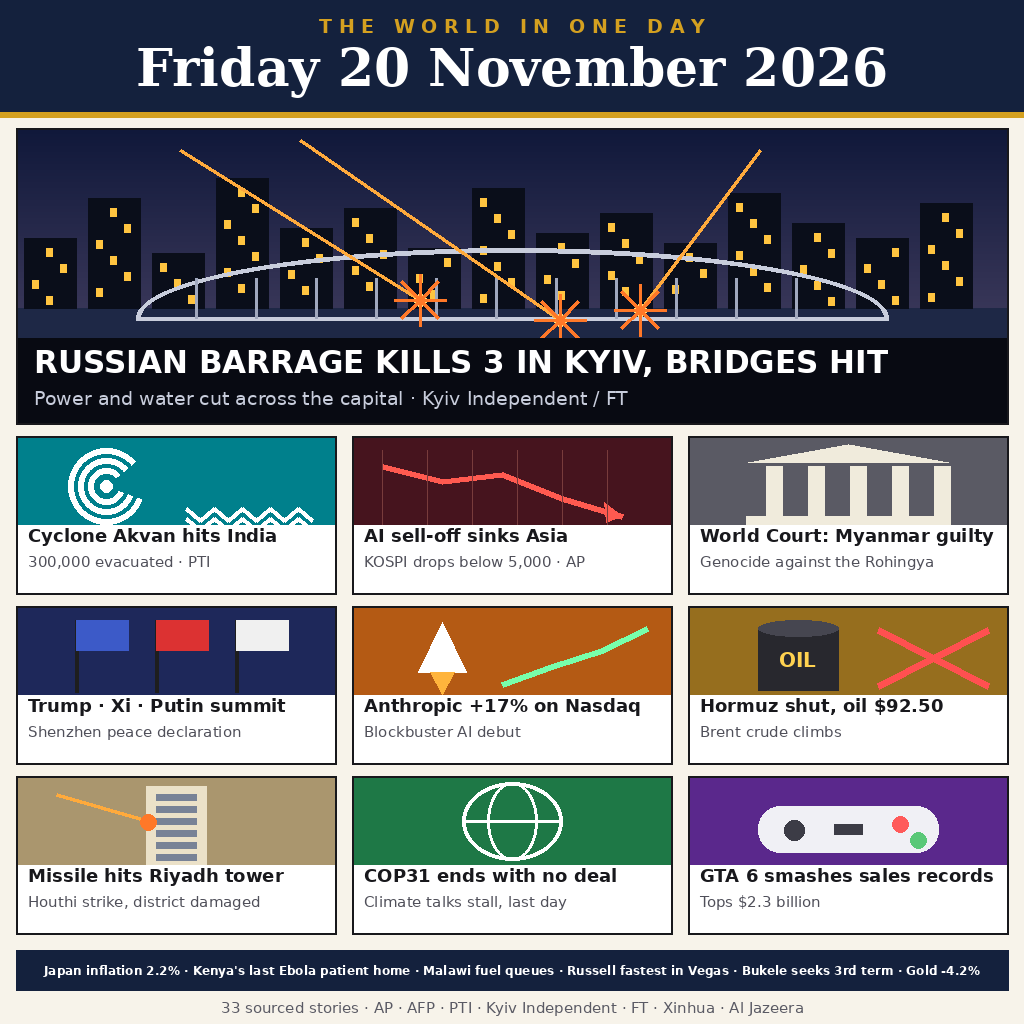
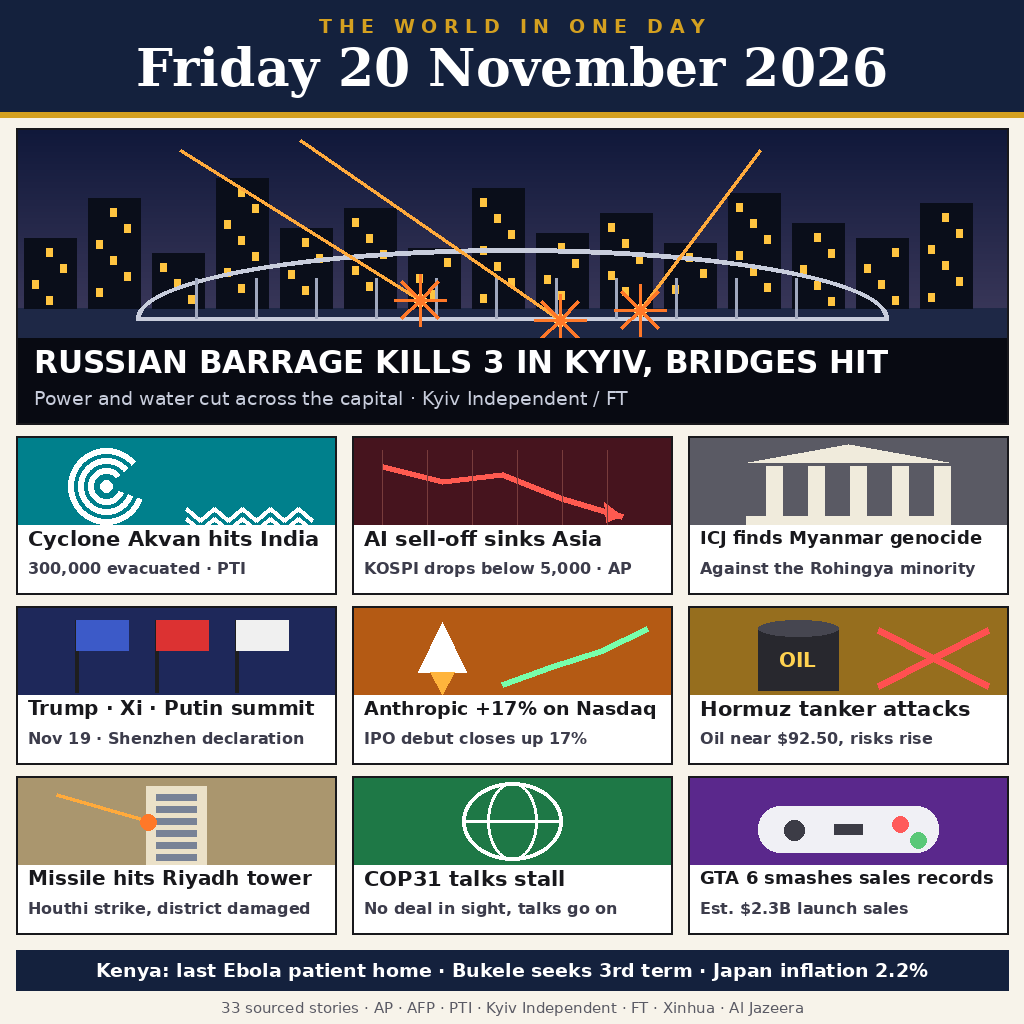
Add files via upload

diff --git a/draw.py b/draw.py
@@ -78,8 +78,8 @@ def panel(px, py, bg, draw_scene, head, sub):
     d.rectangle([px, py, px + pw, py + ph], fill=(255, 255, 255), outline=INK, width=2)
     d.rectangle([px + 2, py + 2, px + pw - 2, py + 88], fill=bg)
     draw_scene(px, py)
-    d.text((px + 12, py + 100), head, font=fit(head, SANSB, 18, pw - 24), fill=INK, anchor="lm")
-    d.text((px + 12, py + 126), sub, font=fit(sub, SANS, 15, pw - 24), fill=(80, 80, 90), anchor="lm")
+    d.text((px + 12, py + 102), head, font=fit(head, SANSB, 21, pw - 24), fill=INK, anchor="lm")
+    d.text((px + 12, py + 132), sub, font=fit(sub, SANSB, 16, pw - 24), fill=(60, 60, 75), anchor="lm")
 
 
 def sc_cyclone(px, py):
@@ -162,13 +162,13 @@ def sc_pad(px, py):
 grid = [
     ((0, 128, 140), sc_cyclone, "Cyclone Akvan hits India", "300,000 evacuated · PTI"),
     ((70, 20, 30), sc_chart, "AI sell-off sinks Asia", "KOSPI drops below 5,000 · AP"),
-    ((90, 90, 100), sc_court, "World Court: Myanmar guilty", "Genocide against the Rohingya"),
-    ((30, 40, 90), sc_flags, "Trump · Xi · Putin summit", "Shenzhen peace declaration"),
-    ((180, 90, 20), sc_rocket, "Anthropic +17% on Nasdaq", "Blockbuster AI debut"),
-    ((150, 110, 30), sc_oil, "Hormuz shut, oil $92.50", "Brent crude climbs"),
+    ((90, 90, 100), sc_court, "ICJ finds Myanmar genocide", "Against the Rohingya minority"),
+    ((30, 40, 90), sc_flags, "Trump · Xi · Putin summit", "Nov 19 · Shenzhen declaration"),
+    ((180, 90, 20), sc_rocket, "Anthropic +17% on Nasdaq", "IPO debut closes up 17%"),
+    ((150, 110, 30), sc_oil, "Hormuz tanker attacks", "Oil near $92.50, risks rise"),
     ((170, 150, 110), sc_tower, "Missile hits Riyadh tower", "Houthi strike, district damaged"),
-    ((30, 120, 70), sc_globe, "COP31 ends with no deal", "Climate talks stall, last day"),
-    ((90, 40, 140), sc_pad, "GTA 6 smashes sales records", "Tops $2.3 billion"),
+    ((30, 120, 70), sc_globe, "COP31 talks stall", "No deal in sight, talks go on"),
+    ((90, 40, 140), sc_pad, "GTA 6 smashes sales records", "Est. $2.3B launch sales"),
 ]
 gx, gy = 16, 436
 for i, (bg, sc, head, sub) in enumerate(grid):
@@ -177,9 +177,8 @@ for i, (bg, sc, head, sub) in enumerate(grid):
 # ---- ticker + footer ---------------------------------------------------------
 ty = 436 + 3 * 170 + 4
 d.rectangle([16, ty, 1008, ty + 40], fill=NAVY)
-tick = ("Japan inflation 2.2% · Kenya's last Ebola patient home · Malawi fuel queues · "
-        "Russell fastest in Vegas · Bukele seeks 3rd term · Gold -4.2%")
-d.text((512, ty + 20), tick, font=fit(tick, SANSB, 16, 960), fill=(255, 255, 255), anchor="mm")
+tick = "Kenya: last Ebola patient home · Bukele seeks 3rd term · Japan inflation 2.2%"
+d.text((512, ty + 20), tick, font=fit(tick, SANSB, 19, 960), fill=(255, 255, 255), anchor="mm")
 d.text((512, ty + 58),
        "33 sourced stories · AP · AFP · PTI · Kyiv Independent · FT · Xinhua · Al Jazeera",
        font=F(SANS, 15), fill=(90, 90, 100), anchor="mm")
